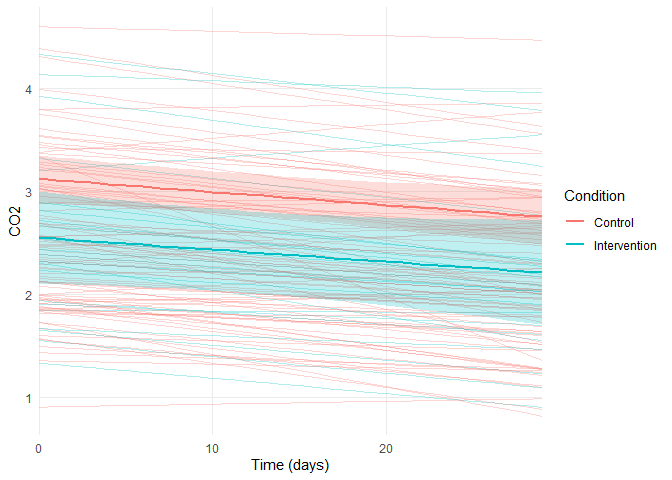
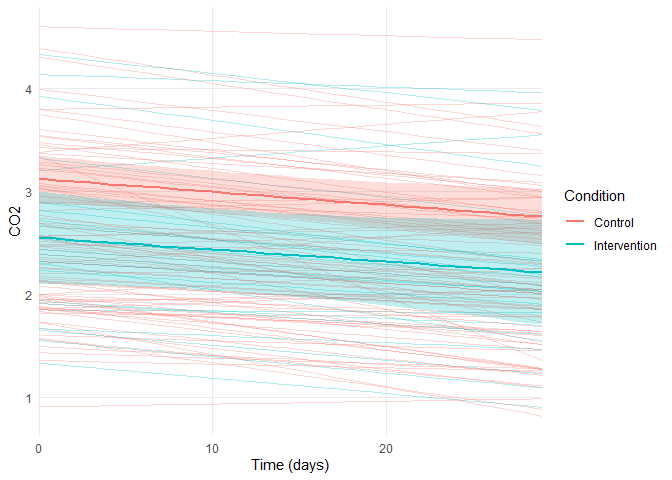
updated optimizer in example to fix model conversion

diff --git a/README.md b/README.md
@@ -6,47 +6,64 @@
 <!-- badges: start -->
 <!-- badges: end -->
 
-The goal of pastaPlot is to …
+pastaPlot allows you to plot fixed and random effects of a linear mixel
+model of class ‘lme4’ or ‘glmmTMB’ in a single spaghetti plot. While the
+pastaPlot() returns a ggplot object, most basic customizations can be
+done within the function itself. So feel free to check the documentation
+before further modifying the plot yourself!
+
+Predicted values and confidence intervals of fixed effects are
+calculated using ggpredict() function from
+[ggeffects](https://strengejacke.github.io/ggeffects/reference/ggpredict.html)
+package (Lüdecke, 2018). At this stage, random effects can only be
+plotted for one variable at a time. Here, the cookPasta function
+automatically checks if you specified random vs. fixed intercept and
+slope in your model (e.g., random intercept, random slope “(1 + time \|
+id)”) and plots them accordingly.
 
 ## Installation
 
-You can install the development version of pastaPlot from
-[GitHub](https://github.com/) with:
+As the CRAN submission is pending, at this stage, you can install
+pastaPlot only from [GitHub](https://github.com/):
 
 ``` r
 # install.packages("devtools")
 devtools::install_github("JanPalnau/pastaPlot")
 ```
 
-## Example
+## Examples
 
-This is a basic example which shows you how to solve a common problem:
+### ‘lme4’
+
+Here is an example passing a lme4 model object based on longitudinal
+data:
 
 ``` r
 library(pastaPlot)
-## basic example code
+
+data("ecovia_data")
+lme4_model <- lme4::lmer(CO2 ~ 1 + time*condition + (1 + time | id), data=ecovia_data, REML = FALSE, control = lme4::lmerControl(optimizer = "bobyqa"))
+pastaPlot(lme4_model, "time", "id", group = "condition", legend.title = "Condition",
+group.labels = c("Control", "Intervention"), ci.int = TRUE, xlab = "Time (days)",
+ylab = "CO2")
 ```
 
-What is special about using `README.Rmd` instead of just `README.md`?
-You can include R chunks like so:
+<img src="man/figures/README-lme4_example-1.png" width="100%" />
+
+### ‘glmmTMB’
+
+Plotting of glmmTMB models works in the same fashion:
 
 ``` r
-summary(cars)
-#>      speed           dist       
-#>  Min.   : 4.0   Min.   :  2.00  
-#>  1st Qu.:12.0   1st Qu.: 26.00  
-#>  Median :15.0   Median : 36.00  
-#>  Mean   :15.4   Mean   : 42.98  
-#>  3rd Qu.:19.0   3rd Qu.: 56.00  
-#>  Max.   :25.0   Max.   :120.00
+data("jsp_data")
+glmmTMB_model <- glmmTMB::glmmTMB(math_score_y3 ~ 1 + math_score_y1*gender +
+(1 + math_score_y1 | school), data=jsp_data, REML = FALSE)
+pastaPlot(glmmTMB_model, "math_score_y1", "school", group = "gender",
+legend.title = "Gender", group.labels = c("Male", "Female"), ci.int = FALSE,
+xlab = "Math score (year 1)", ylab = "Math score (year 3)")
 ```
 
-You’ll still need to render `README.Rmd` regularly, to keep `README.md`
-up-to-date. `devtools::build_readme()` is handy for this.
+<img src="man/figures/README-glmmTMB_example-1.png" width="100%" />
 
-You can also embed plots, for example:
-
-<img src="man/figures/README-pressure-1.png" width="100%" />
-
-In that case, don’t forget to commit and push the resulting figure
-files, so they display on GitHub and CRAN.
+If you have any questions, encounter errors, or miss some features, feel
+free to contact me: <jan.palnau@mailbox.org>
